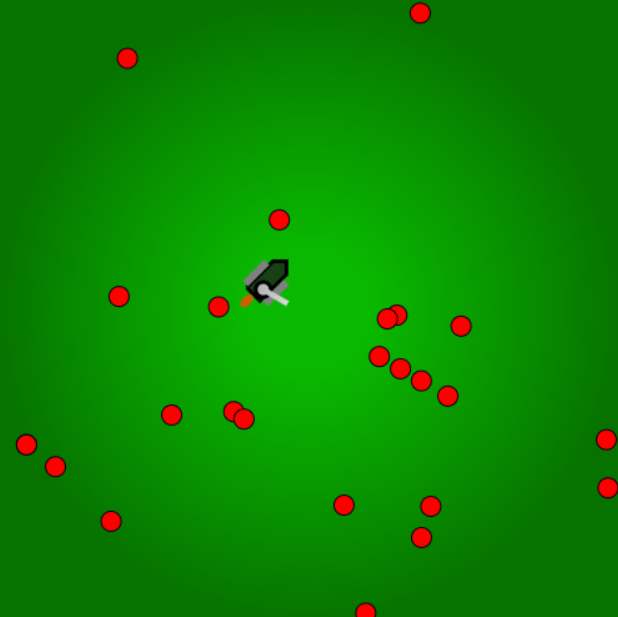
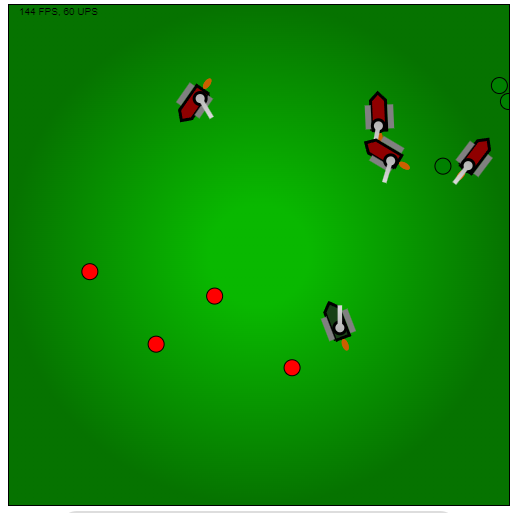
docs: update screenshot and readme

diff --git a/README.md b/README.md
@@ -1,16 +1,20 @@
-# COMP 590-172 F24 Assignment 2
+# COMP 590-172 F24 Assignment 3
 
-*Building a Game Engine (part 1) by Gabrian C*
+*Building a Game Engine (part 2) by Gabrian C*
 
-## Rocket Tank
+## Rocket Tanks
 
-![Screenshot of Rocket Tank](/screenshot.png)
+![Screenshot of Rocket Tanks](/screenshot.png)
 
-A simple hierarchical object using HTML5 Canvas. The object I chose is a Tank which has two children:
+A simple game showcasing multiple hierarchical object using HTML5 Canvas. The object I chose is a Tank which has two children:
 
 1. **A cannon.** The cannon must rotate and move along with the tank but also can rotate on top of the tank.
 
 2. **The rocket engine.** I show an animated flame on the back of the tank which must rotate and move along with the tank.
+
+## The game
+
+You face off against 4 enemy tanks, all of which move in random directions and shoot cannonballs at you. Dodge their cannonballs as you shoot back at them to win!
 
 ## Controls
 
